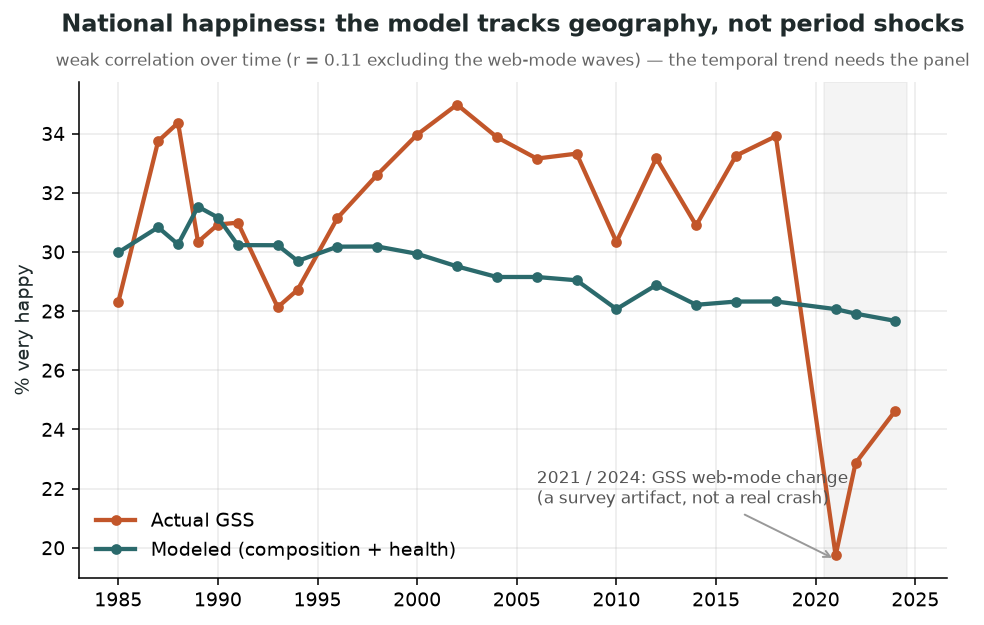
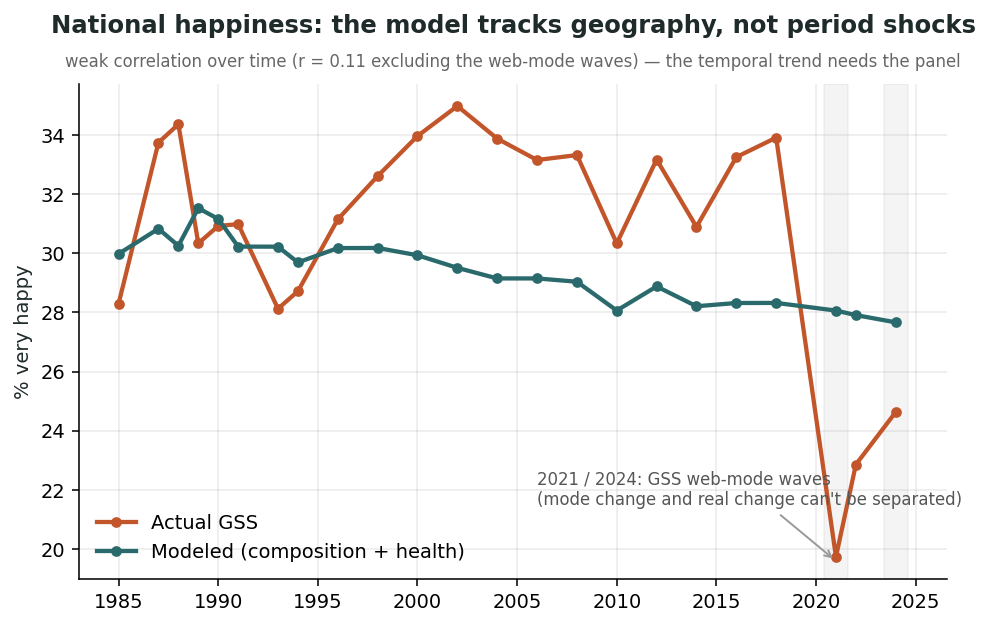
Stop calling the 2021/2024 happiness drop a survey artifact
The national trend chart annotated the 2021/2024 drop as "a survey artifact, not a real crash",
and README.md and METHODOLOGY_TODO.md said the same thing in words. That claim is stronger than
the evidence: temporal.py itself says the 2021 pandemic dip and the push-to-web mode change
coincide and can't be separated, because GSS has no within-year mode experiment. 2022, which
was not a web-mode wave, is also well below the pre-2020 level (24.75% very happy vs 31.50% in
2018), so at least part of the drop may be real.

The chart's shaded band also ran from 2020.4 to 2024.6, so it covered 2022 as a web-mode year
even though MODE_BREAK, the set excluded from the r computed over the other years, lists only
2021 and 2024.

Changes:
- make_visuals.trend_chart: annotation now reads "GSS web-mode waves (mode change and real
  change can't be separated)"; shade 2021 and 2024 separately instead of one 2021-2024 band;
  MODE_BREAK comment points to temporal.py instead of calling the waves an artifact.
- README.md, METHODOLOGY_TODO.md: same rewording.
- docs/national_trend.png regenerated with trend_chart (r = 0.364 overall, 0.11 without the
  web-mode waves; unchanged).

diff --git a/diagnostics/make_visuals.py b/diagnostics/make_visuals.py
@@ -23,7 +23,7 @@ INK, ACCENT, TEAL = "#1f2a2b", "#c2562a", "#2b6a6c"
 COUNTIES = "https://raw.githubusercontent.com/plotly/datasets/master/geojson-counties-fips.json"
 
 
-MODE_BREAK = (2021, 2024)  # GSS switched to web/push-to-web — a documented survey-mode artifact
+MODE_BREAK = (2021, 2024)  # GSS push-to-web waves; mode effect and real change coincide (temporal.py)
 
 
 def trend_chart(gss, out: Path):
@@ -32,10 +32,11 @@ def trend_chart(gss, out: Path):
     keep = df[~df.year.isin(MODE_BREAK)]
     r_ex = round(float(keep.actual.corr(keep.modeled)), 2)
     fig, ax = plt.subplots(figsize=(8, 4.6))
-    ax.axvspan(2020.4, 2024.6, color="#999", alpha=0.10)
+    for y in MODE_BREAK:
+        ax.axvspan(y - 0.6, y + 0.6, color="#999", alpha=0.10)
     ax.plot(df.year, df.actual, "-o", color=ACCENT, lw=2.2, ms=4.5, label="Actual GSS")
     ax.plot(df.year, df.modeled, "-o", color=TEAL, lw=2.2, ms=4.5, label="Modeled (composition + health)")
-    ax.annotate("2021 / 2024: GSS web-mode change\n(a survey artifact, not a real crash)",
+    ax.annotate("2021 / 2024: GSS web-mode waves\n(mode change and real change can't be separated)",
                 xy=(2021, 19.6), xytext=(2006, 21.5), fontsize=8.5, color="#555",
                 arrowprops=dict(arrowstyle="->", color="#999", lw=1))
     ax.set_title("National happiness: the model tracks geography, not period shocks", color=INK,

diff --git a/METHODOLOGY_TODO.md b/METHODOLOGY_TODO.md
@@ -92,8 +92,9 @@ for tractability, and where a v2 could do better. Grouped by priority.
     national trend beautifully in-sample (**r≈0.81**) but **overfits** — leave-one-year-out collapses to
     **r≈0.20** (and −0.22 on in-person years); held out, 2021 predicts 27% vs the actual 20%. National
     happiness *mood* is idiosyncratic period shock, **not a smooth/forecastable trend** (chart:
-    `docs/temporal_overfit.png`). The 2021 "collapse" is mostly the GSS push-to-web mode change
-    (`mntlhlth` isn't even collected in 2021/2024; unemployment spiked but explains ~1 of ~12 pts).
+    `docs/temporal_overfit.png`). The 2021 "collapse" coincides with the GSS push-to-web mode
+    change, and the two can't be separated (no within-year mode experiment; `mntlhlth` isn't even
+    collected in 2021/2024; unemployment spiked but explains ~1 of ~12 pts).
     CONCLUSION: the cross-sectional product is the right one (geography is stable + predictable). A
     temporal panel can still be built as per-year *observed* snapshots — compositional tract estimates +
     each year's GSS national level via calibration (NOT a forecast) — but its national trend would be

diff --git a/README.md b/README.md
@@ -81,7 +81,7 @@ CDC PLACES health margin  ──────────┘
   from the model) across 78.6k tracts.
 - **National trend — and why there's no temporal forecast.** A *cross-sectional* model tracks geography,
   not time (real year-to-year **r ≈ 0.11**; the apparent 0.36 is inflated by the 2021/2024 GSS web-mode
-  artifact). We tried a period model — it fits in-sample (r ≈ 0.81) but **overfits**: leave-one-year-out
+  waves, where a mode change and real change coincide). We tried a period model — it fits in-sample (r ≈ 0.81) but **overfits**: leave-one-year-out
   collapses to r ≈ 0.20. National happiness *mood* is idiosyncratic period shock, not a forecastable
   trend, so the honest product is the **spatial** estimate. (Details + chart in
   [METHODOLOGY_TODO.md](METHODOLOGY_TODO.md).)
